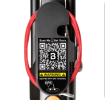
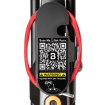
asd

Changed region(s): [[0.2019, 0.0, 0.8077, 1.0], [0.9808, 0.03, 1.0, 0.99], [0.6058, 0.0, 0.6635, 0.09]]

diff --git a/src/styles/_style.scss b/src/styles/_style.scss
@@ -508,8 +508,9 @@ input[type='number'] {
     }
     img {
       width: 470px;
-      height: 410px;
+      height: 380px;
       max-width: 100%;
+      // max-height: 100%;
     }
   }
   &__image-selection-wrapper {
@@ -634,7 +635,7 @@ input[type='number'] {
     max-width: 530px;
     width: 100%;
     float: right;
-    padding-right: 80px;
+    padding-right: 60px;
   }
 }
 @media only screen and (min-width: 427px) {
@@ -723,7 +724,7 @@ input[type='number'] {
       &__image-wrapper {
         img {
           width: 100%;
-          height: 340px;
+          height: 280px;
           max-width: 100%;
         }
       }

diff --git a/src/components/InfoPage.js b/src/components/InfoPage.js
@@ -1,6 +1,7 @@
 import React, { useState } from 'react';
 // import BK_1 from '../assets/img/BK_1.png';
 import img1 from '../assets/img/img1.png';
+import BK_1 from '../assets/img/BK_1.png';
 import img2 from '../assets/img/img2.png';
 // import img3 from '../assets/img/img3.jpg';
 // import img4 from '../assets/img/img4.jpg';
@@ -14,7 +15,7 @@ import { Image } from 'antd';
 export default function InfoPage({ setShowRight }) {
   const [selectedImage, setSelectedImage] = useState(1);
   const infoImages = {
-    1: img1,
+    1: BK_1,
     2: img2,
     3: img5,
   };
